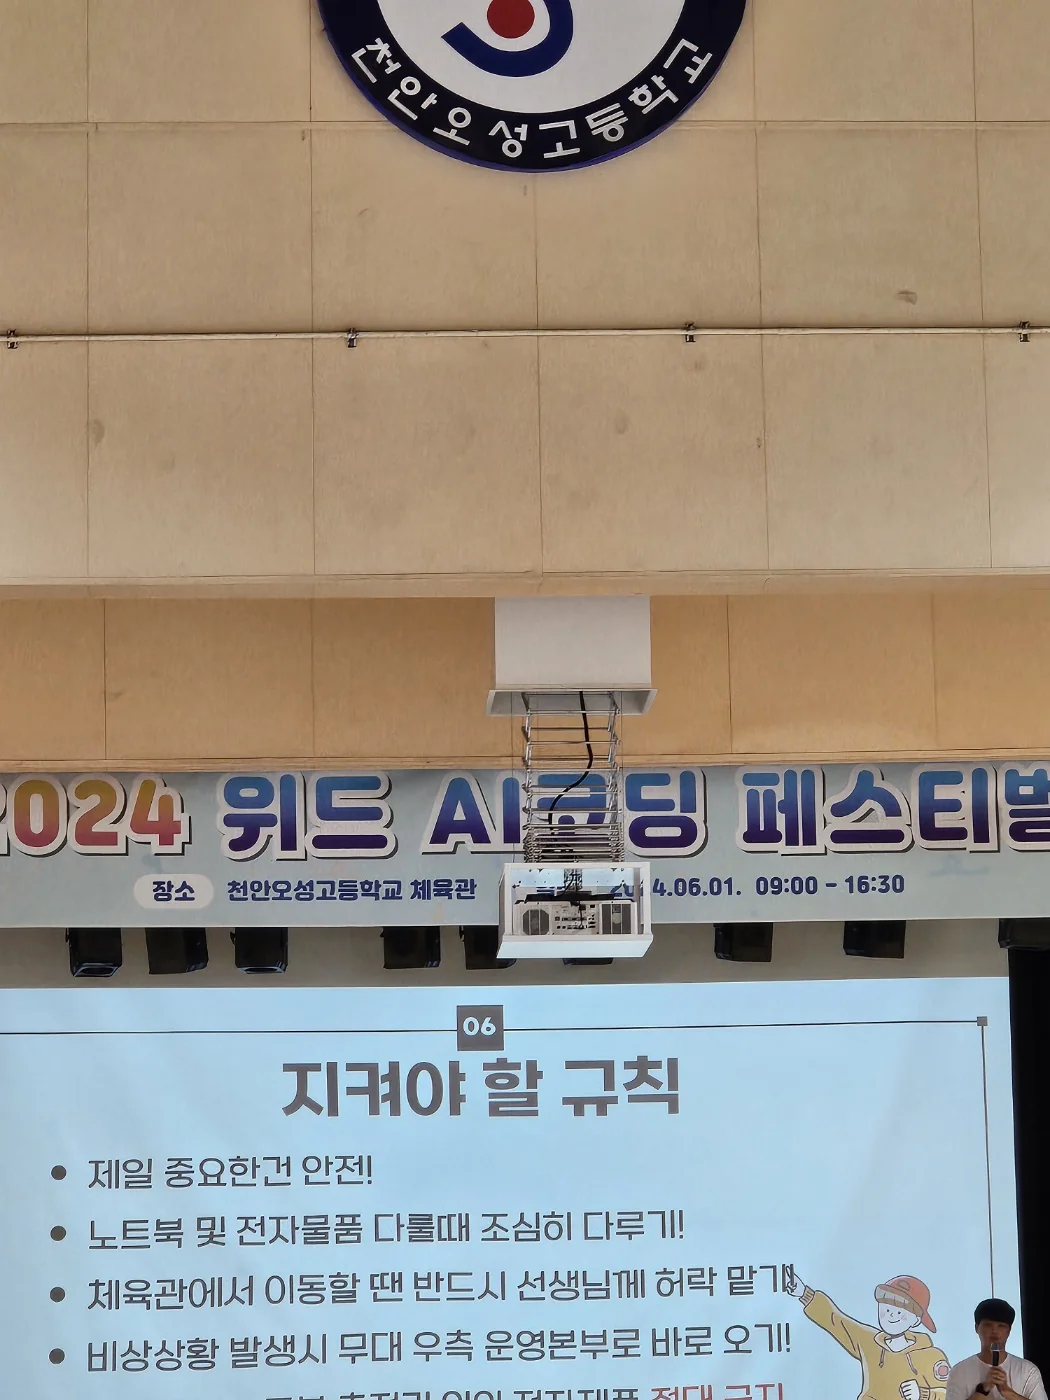
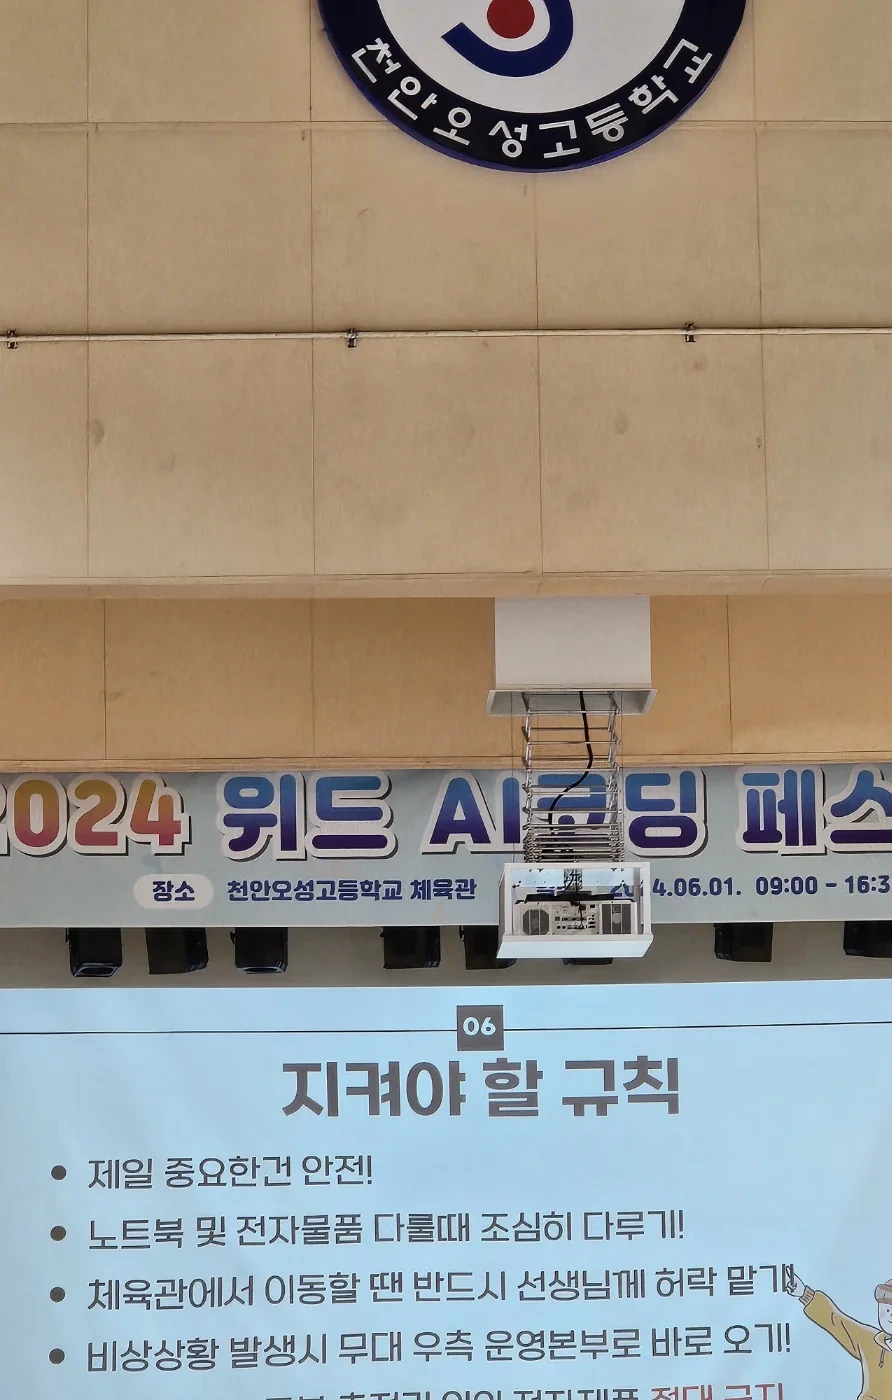
fix: crop cafeteria venue photo for privacy

diff --git a/projects/meal_queue_signal_counter/index.html b/projects/meal_queue_signal_counter/index.html
@@ -91,7 +91,7 @@
                 <h2 data-en="Project Media" data-ko="프로젝트 사진">프로젝트 사진</h2>
                 <div class="detail-gallery">
                 <figure class="detail-figure media-crop-right">
-                    <img src="assets/images/festival-venue.webp" width="1050" height="1400" loading="lazy" decoding="async" alt="2024 위드 AI 코딩 페스티벌 행사장" />
+                    <img src="assets/images/festival-venue.webp" width="892" height="1400" loading="lazy" decoding="async" alt="2024 위드 AI 코딩 페스티벌 행사장" />
                     <figcaption data-en="2024 With AI Coding Festival venue" data-ko="2024 위드 AI 코딩 페스티벌 행사장">2024 위드 AI 코딩 페스티벌 행사장</figcaption>
                   </figure>
                 <figure class="detail-figure">
